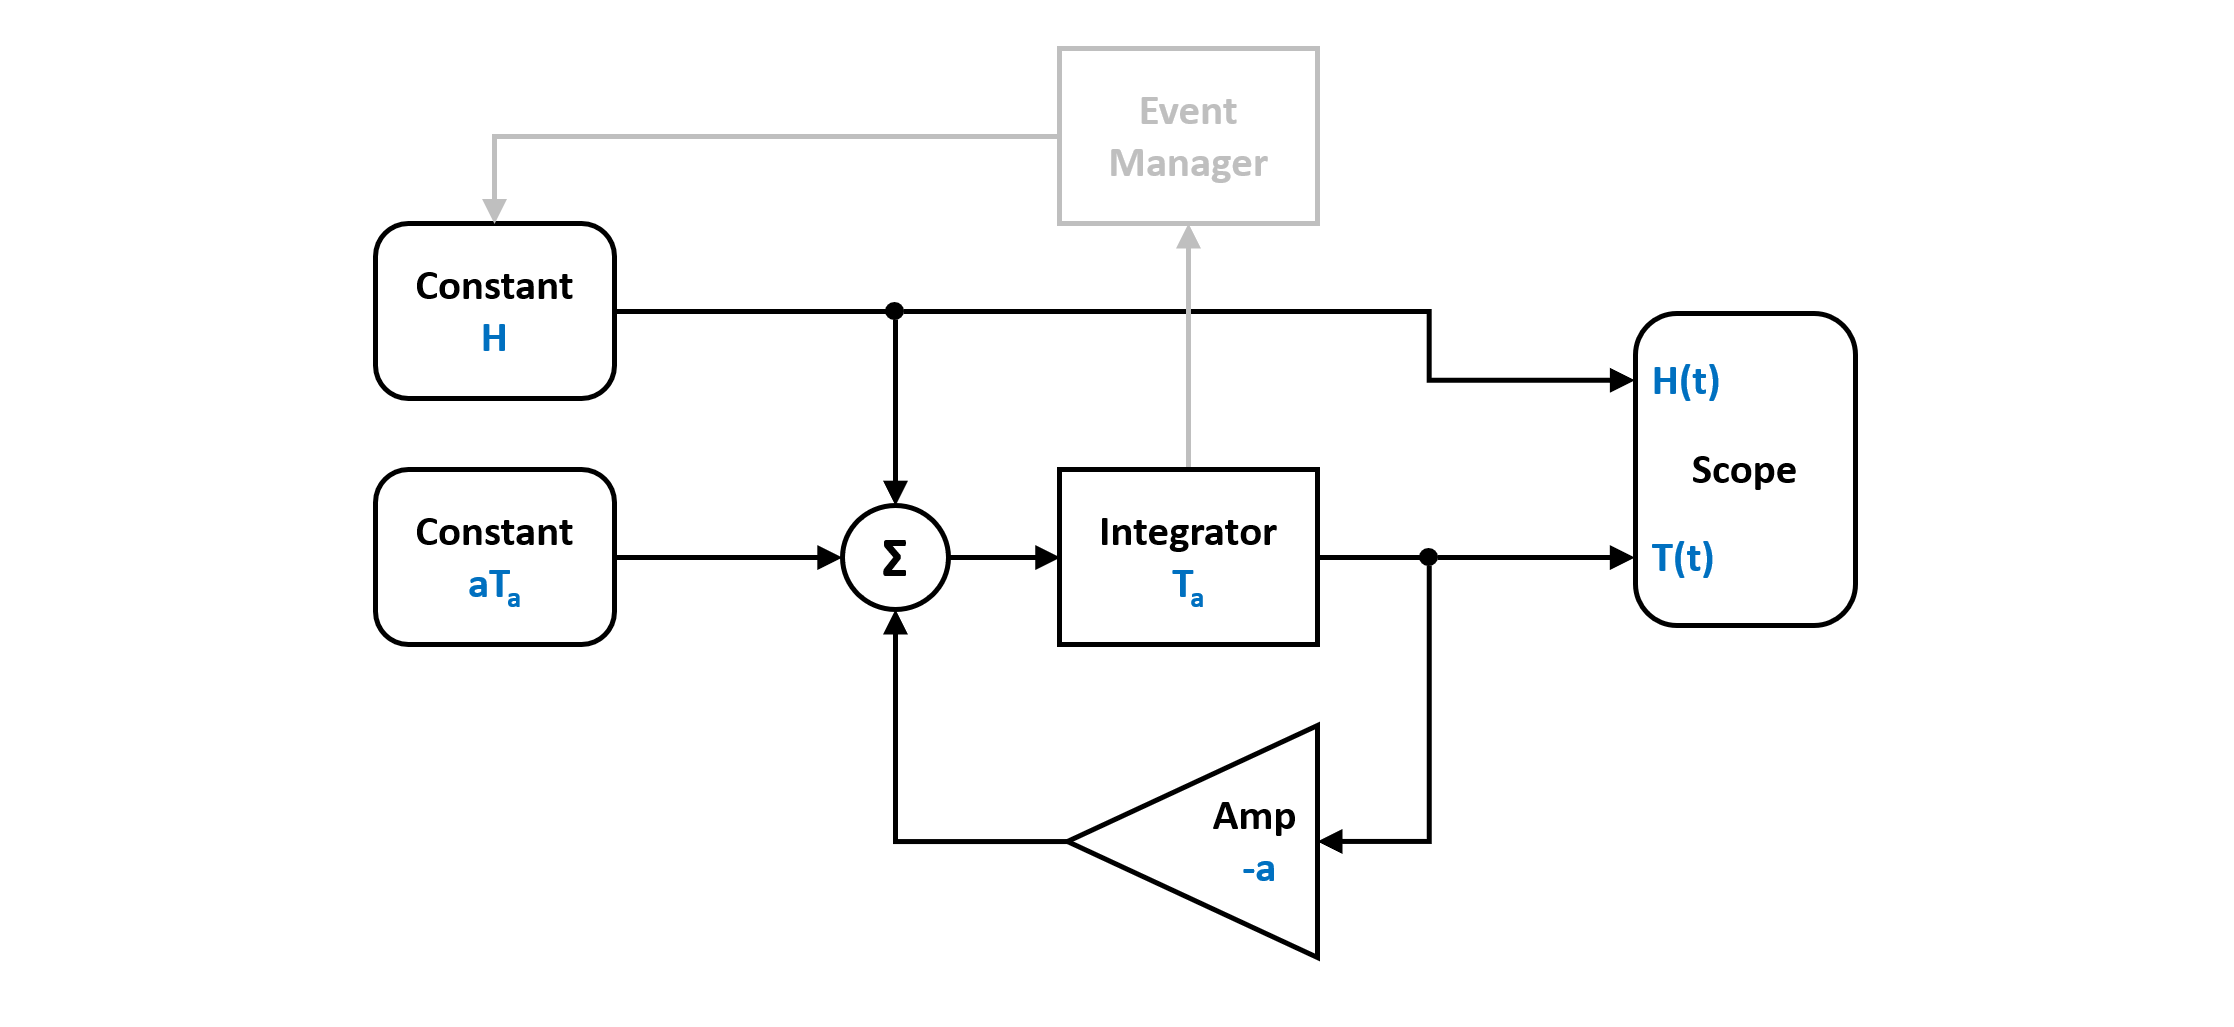
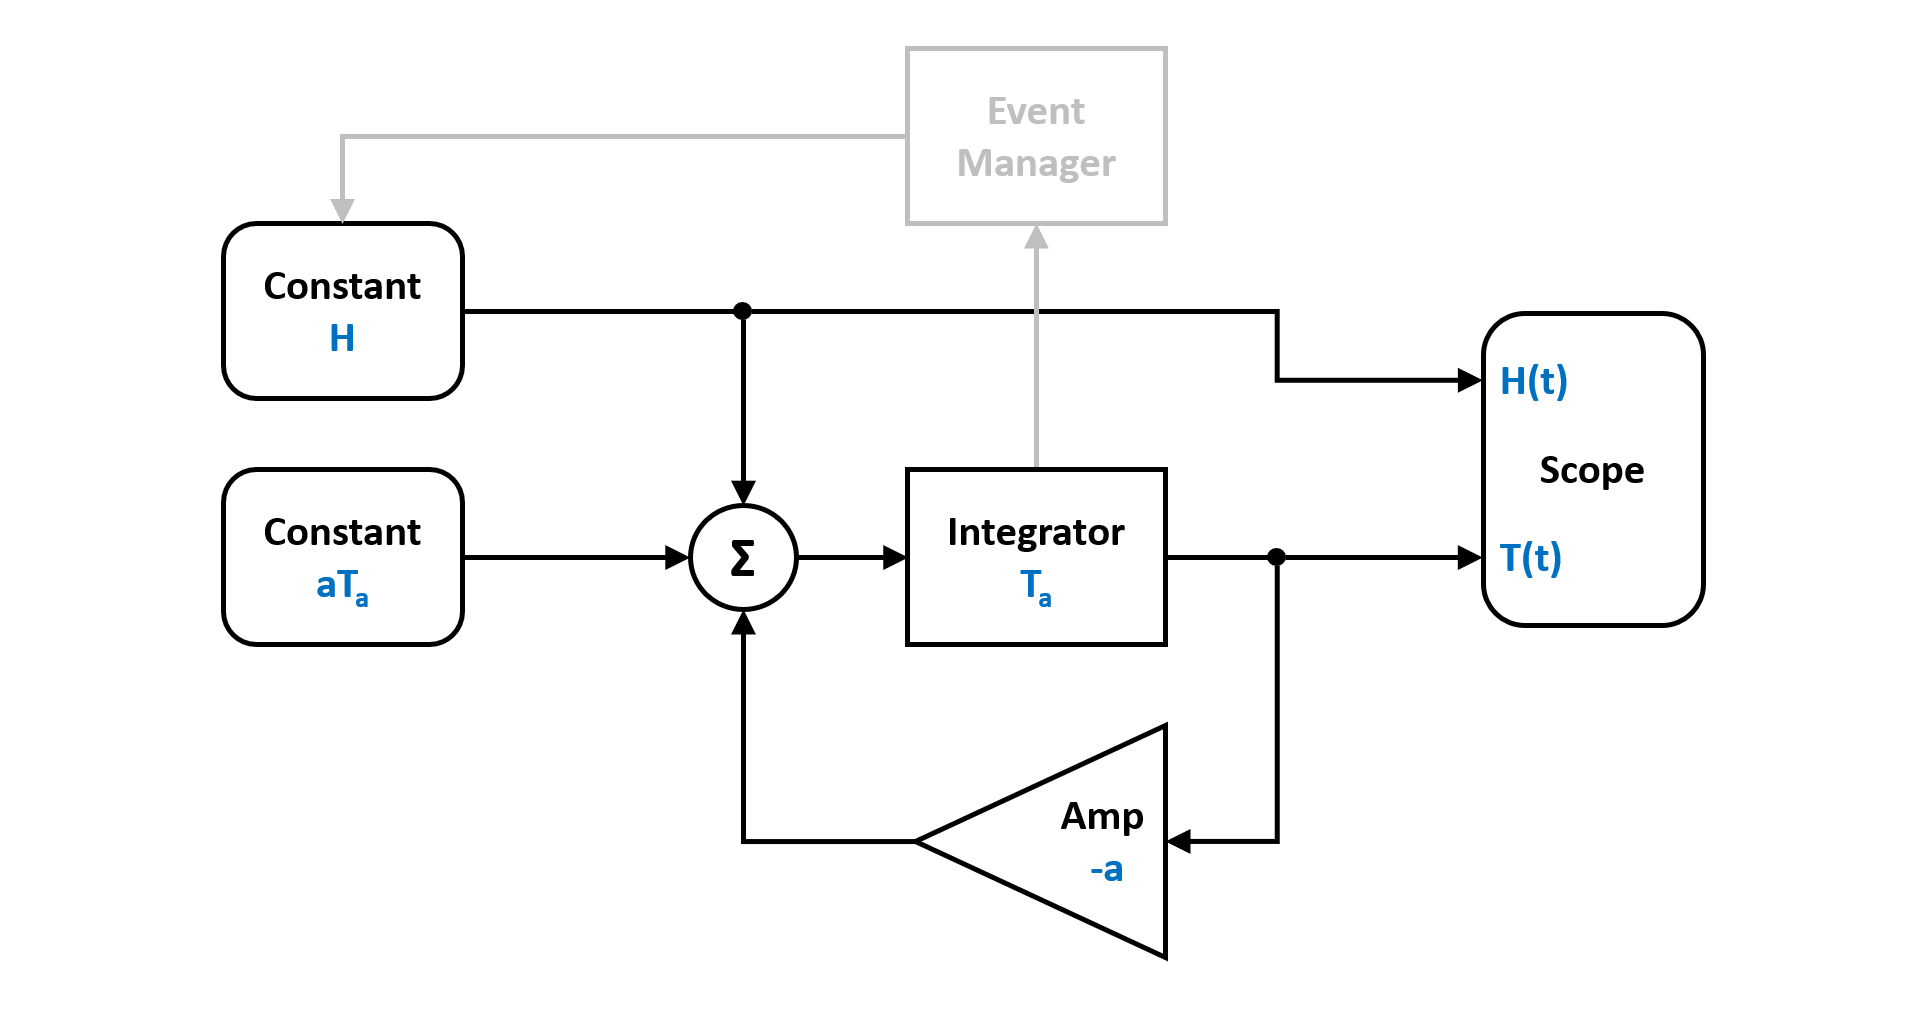
updated docs, added images

diff --git a/docs/source/examples/bouncing_ball.rst b/docs/source/examples/bouncing_ball.rst
@@ -12,6 +12,15 @@ This example demonstrates `PathSims` event handling system. The classical exampl
 
 Systems like this require the location and resolution of discrete events within the timestep and are not easily solved with standard numerical ODE solvers. `PathSim` implements an event management system that can track the system state and locate and resolve specified events. 
 
+We can translate the dynamics of the system into a block diagram. Note the event manager that watches the state of the integrator for the position and can act on both integrator states:
+
+
+.. image:: figures/bouncing_ball_blockdiagram.png
+   :width: 700
+   :align: center
+   :alt: block diagram of the bouncing ball system
+
+
 To simulate the bouncing ball, lets start by importing the required blocks from block library. In this case integrators and a constant for gravity. And of course the zero crossing event manager from the event library.
 
 .. code-block:: python
